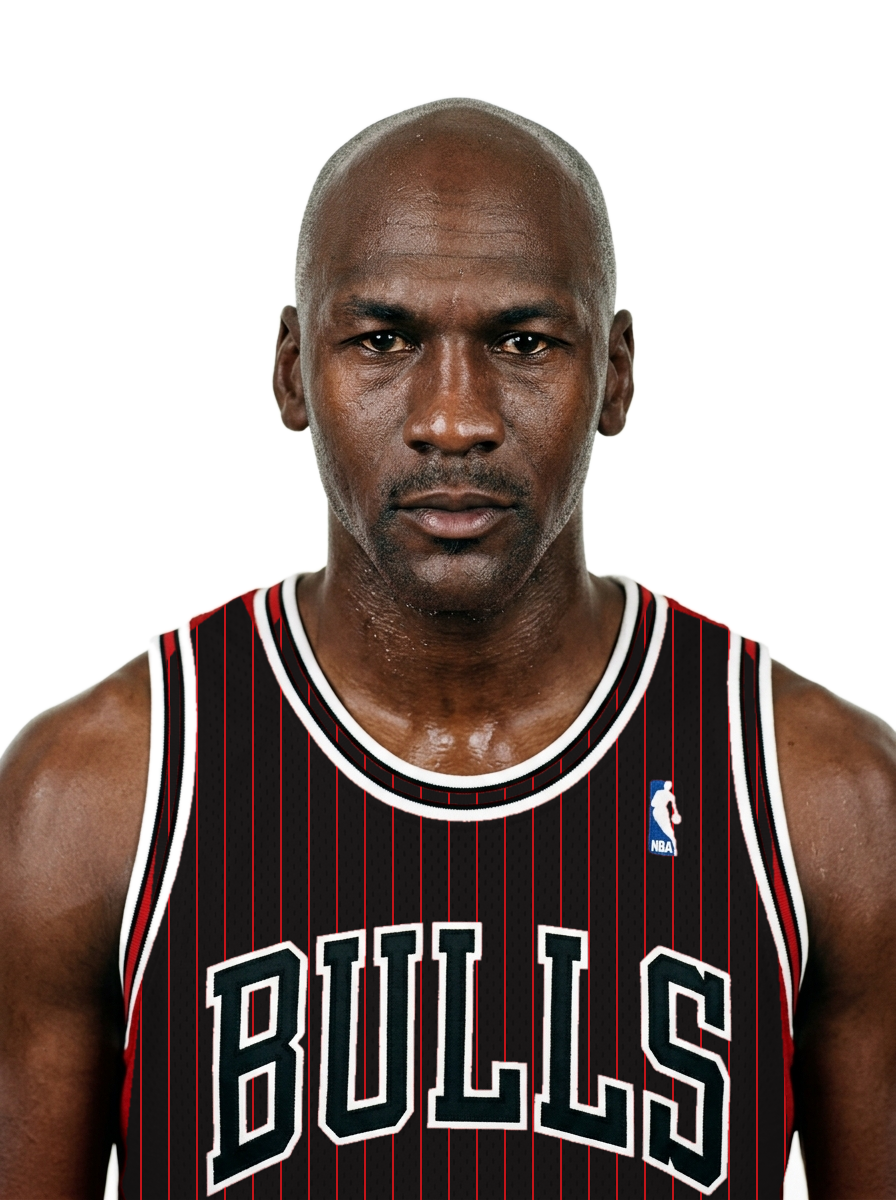
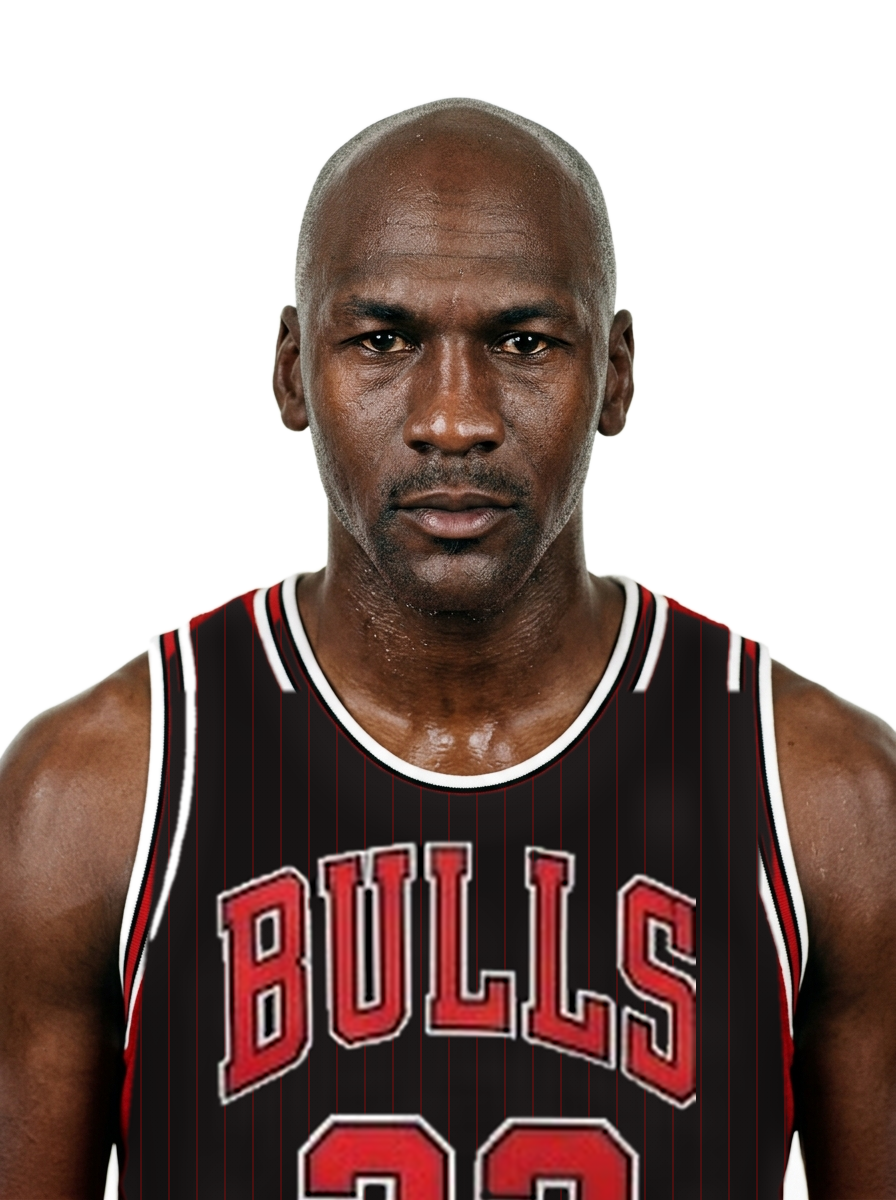
feat(jerseys): integrate authentic licensed jersey memorabilia textures
- 1992 USA Dream Team (#9 Olympic Navy Blue with arched metallic gradient USA lettering, block 9, and USA Basketball chest patch)
- 1991 Home White Classic (clean white breathable athletic mesh with red arched BULLS and 23 with black outline)
- 1996 72-10 Black Pinstripe (dark charcoal mesh with red pinstripes, red BULLS and 23 with white outline)
- Preserved pristine 1998 Road Red master portrait
- Fixed uniform button badge status to consistently show OLYMPIC

diff --git a/index.html b/index.html
@@ -2365,7 +2365,8 @@
           b.classList.remove('active');
           const badge = b.querySelector('.badge');
           if (badge) {
-            badge.textContent = b.getAttribute('data-jersey') === '1' ? 'ALT' : b.getAttribute('data-jersey') === '2' ? 'CLASSIC' : 'TITLE';
+            const jid = b.getAttribute('data-jersey');
+            badge.textContent = jid === '1' ? 'ALT' : jid === '2' ? 'CLASSIC' : jid === '3' ? 'OLYMPIC' : 'TITLE';
           }
         });
 

diff --git a/build_clean_page.py b/build_clean_page.py
@@ -2367,7 +2367,8 @@ html_code = '''<!DOCTYPE html>
           b.classList.remove('active');
           const badge = b.querySelector('.badge');
           if (badge) {
-            badge.textContent = b.getAttribute('data-jersey') === '1' ? 'ALT' : b.getAttribute('data-jersey') === '2' ? 'CLASSIC' : 'TITLE';
+            const jid = b.getAttribute('data-jersey');
+            badge.textContent = jid === '1' ? 'ALT' : jid === '2' ? 'CLASSIC' : jid === '3' ? 'OLYMPIC' : 'TITLE';
           }
         });
 
